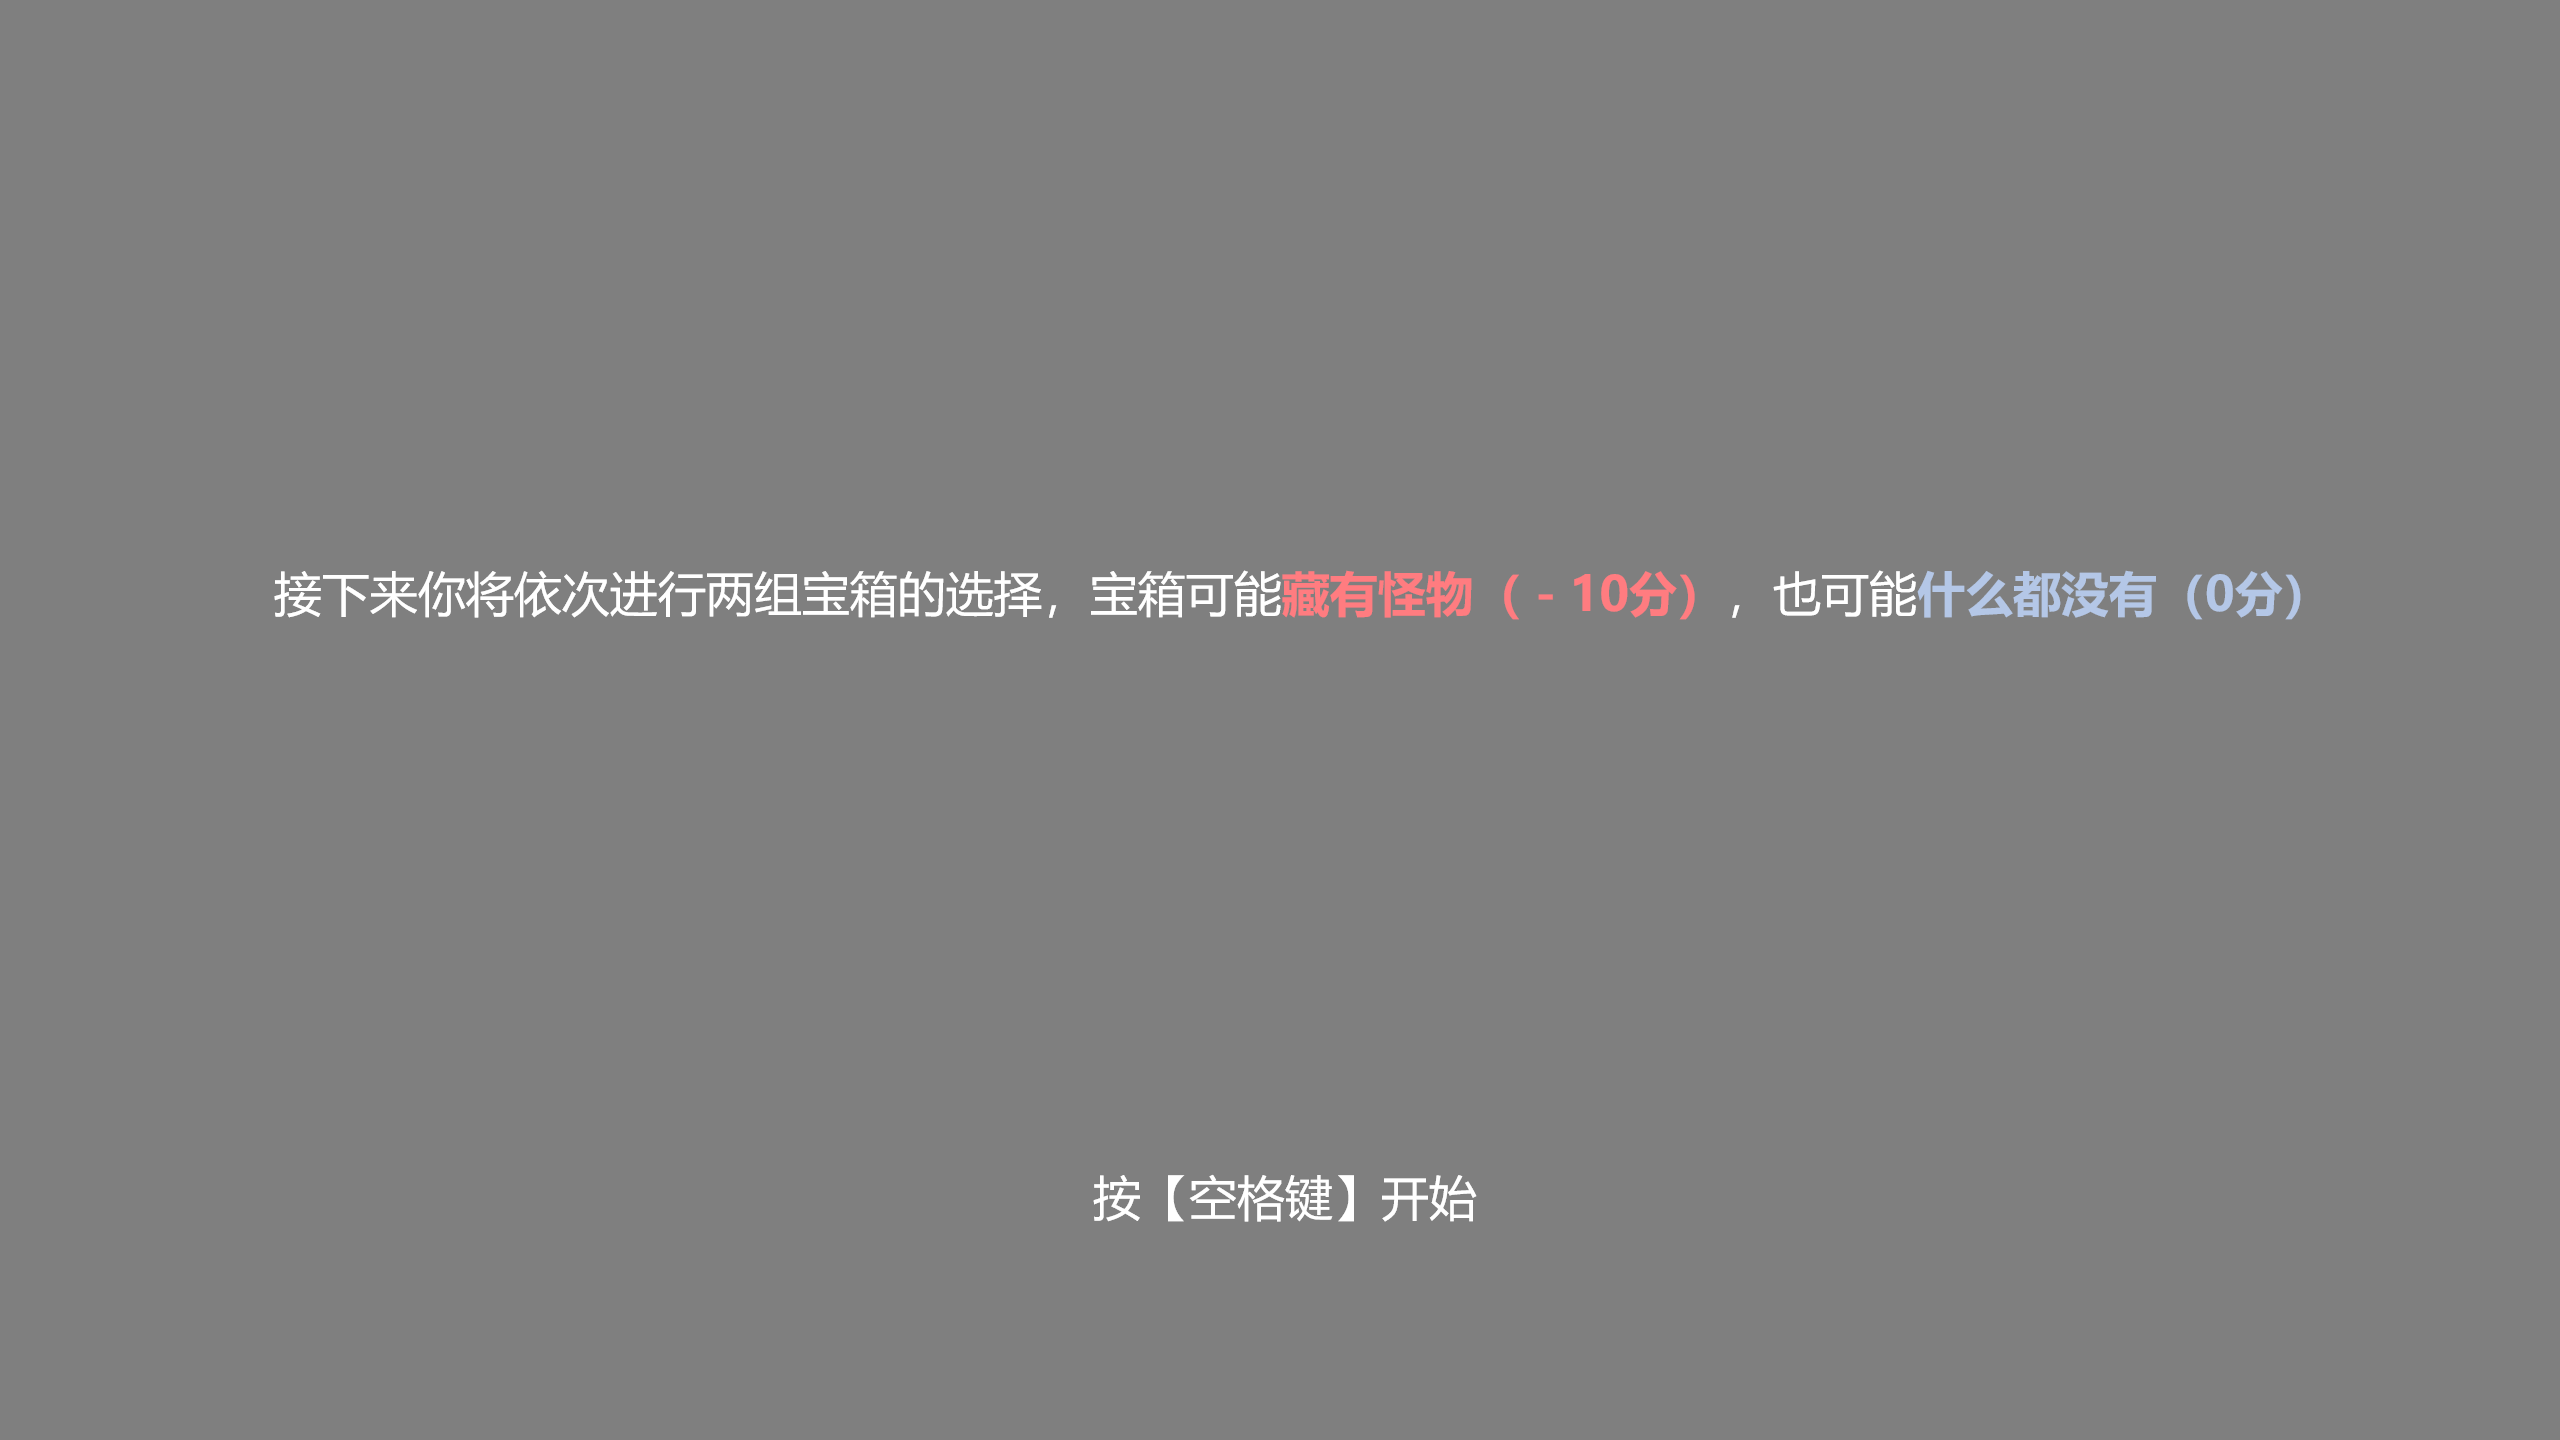
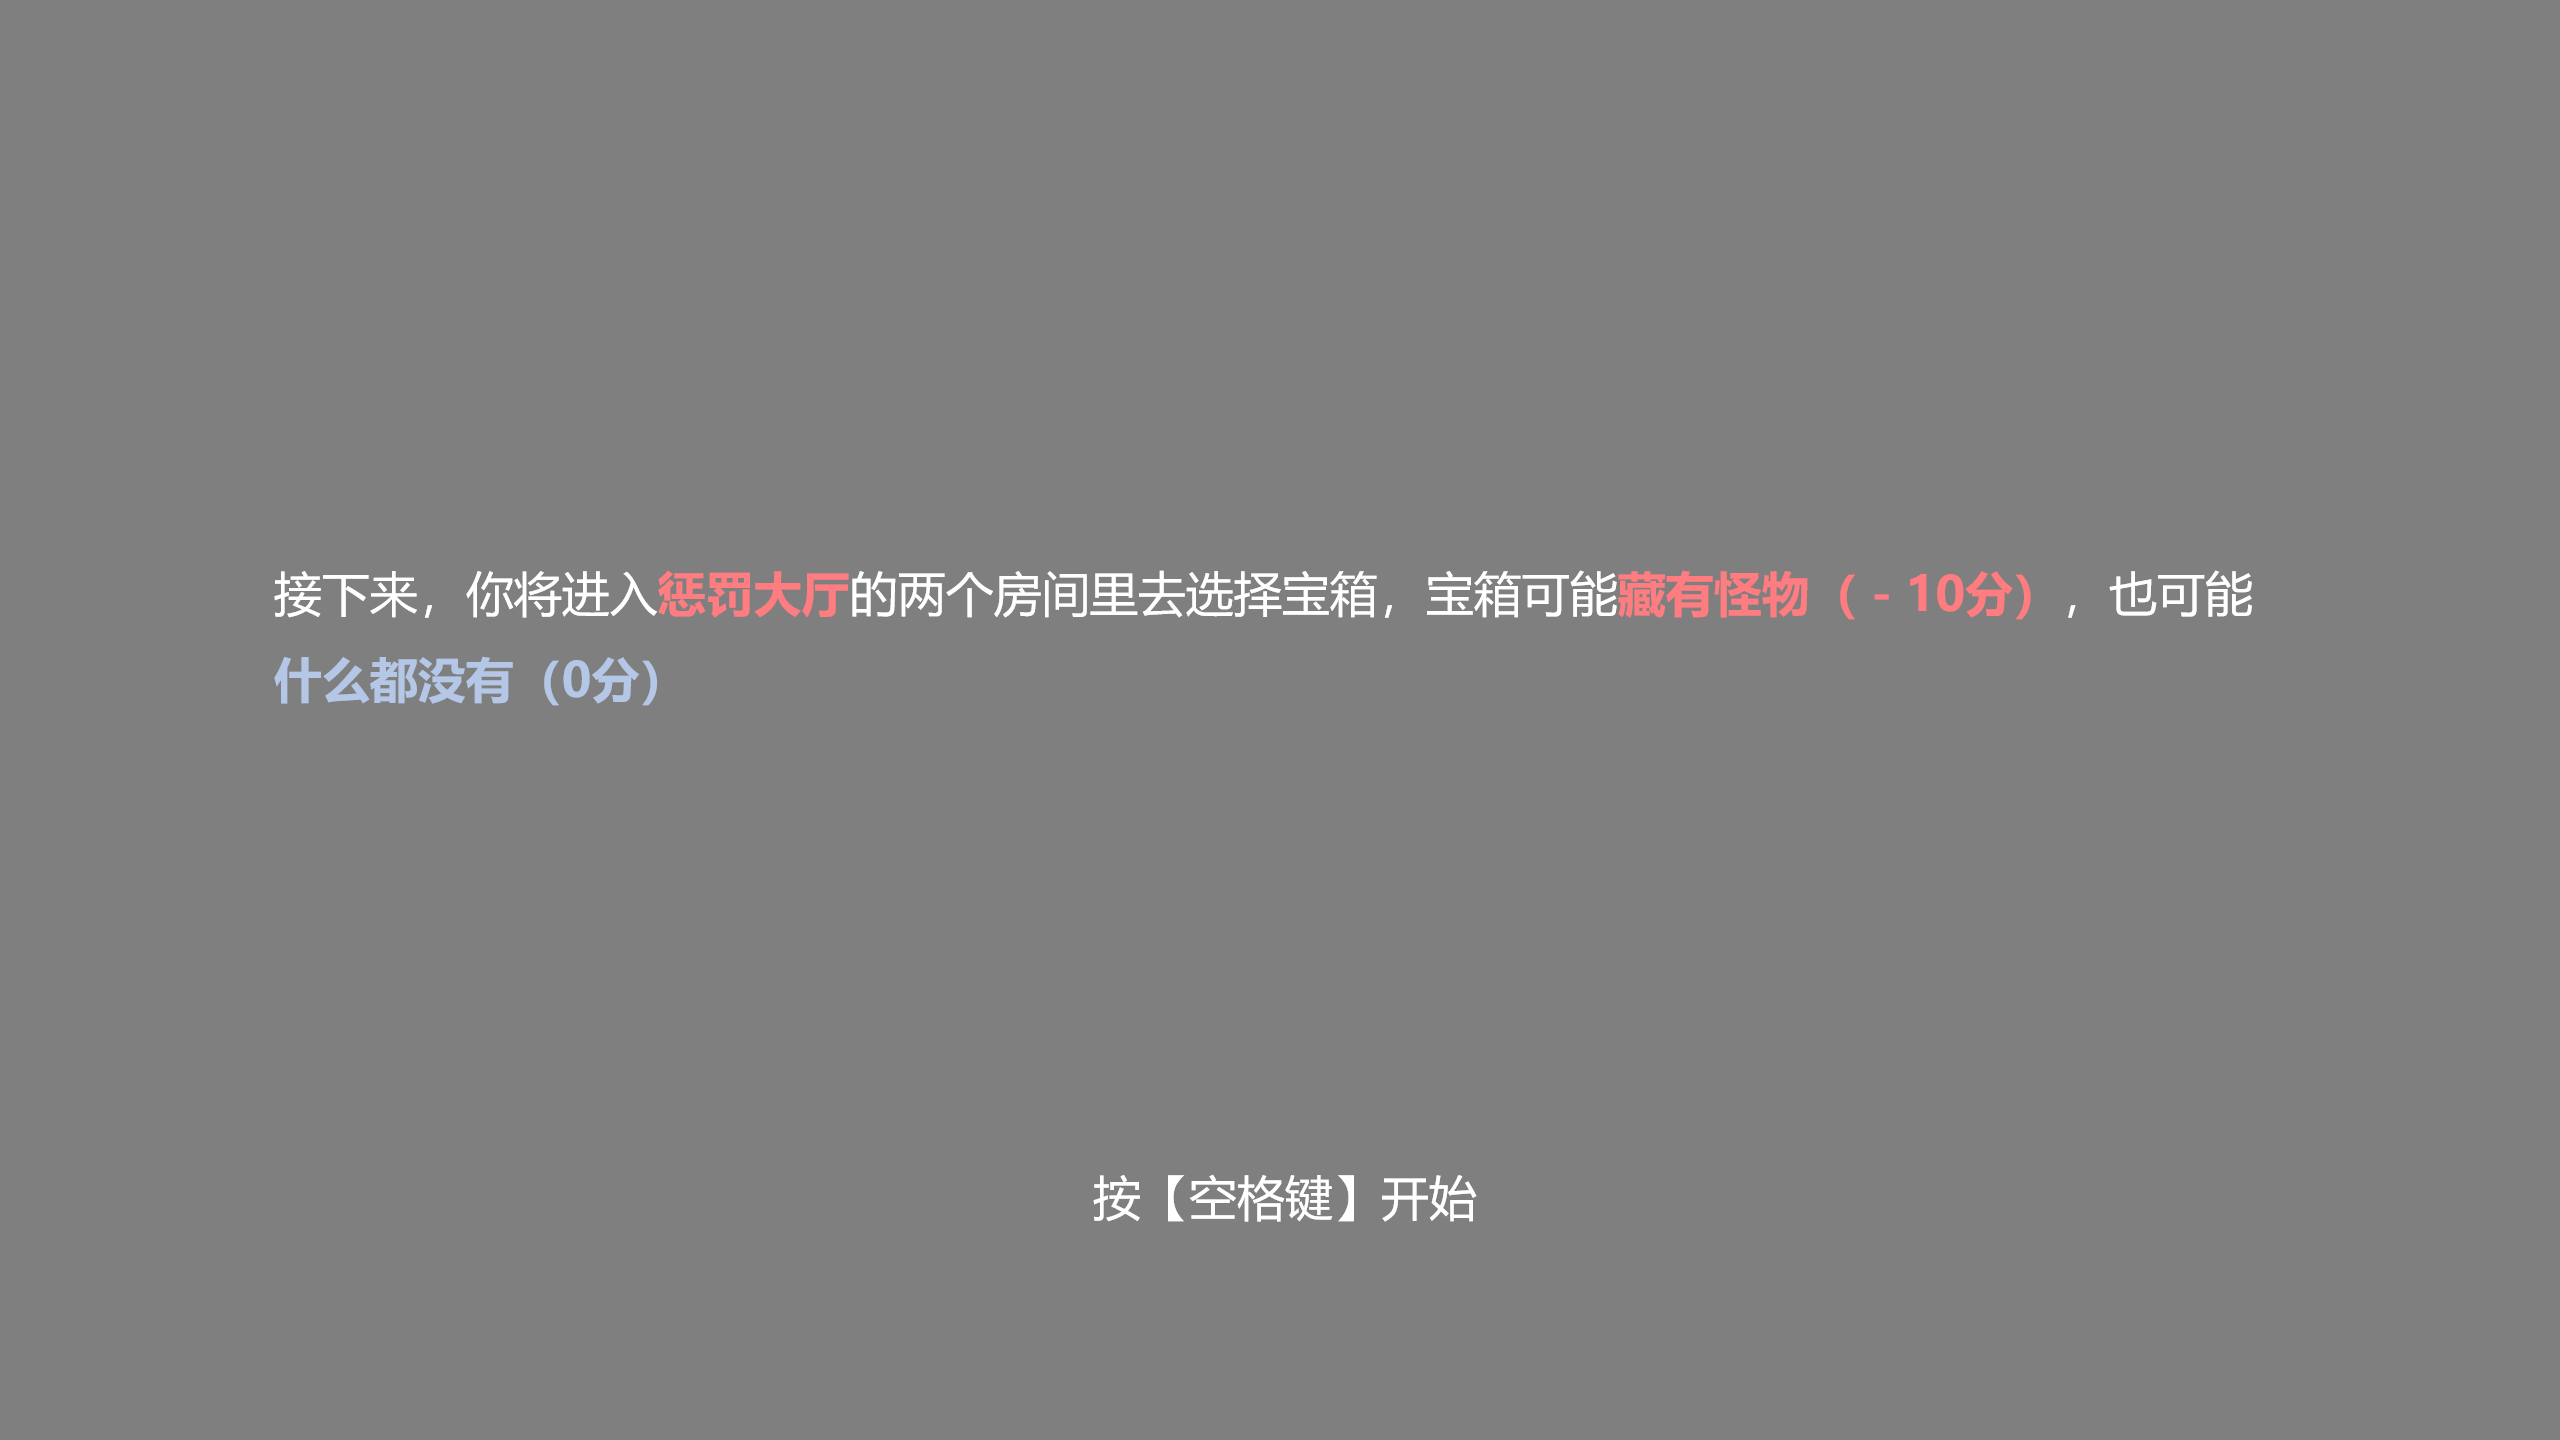
change introductions

Changed region(s): [[0.0938, 0.375, 0.9062, 0.5]]

diff --git a/exp.py b/exp.py
@@ -32,9 +32,9 @@ a = h/720
 results = {
     'choice':[],'p_choose':[], 'result':[], 'rt': []
     }
-n_repeat = 32
+n_repeat = 35
 df = hp.generate(n_repeat=n_repeat)
-df_train = hp.generate_train(n=12)
+df_train = hp.generate_train(n=6)
 win = visual.Window(size=(w, h), fullscr=True, units='pix')
 # Text
 text = visual.TextStim(win, height=64 * h / 720, pos=(0, 0), wrapWidth=10000)
@@ -129,11 +129,21 @@ rt_last = 3
 clk.reset()
 for i in range(len(df)):
     if i in [n_repeat, n_repeat*3]:
+        text.text = "本房间探索结束，你累积%s分" % money_total
+        text.draw()
+        win.flip()
+        core.wait(2)
+        clk.reset()
         while clk.getTime()<10:
-            text.text = '请休息，%s秒后进入下一组'%int(clk.getTime())
+            text.text = '请休息，%s秒后进入下一组'%10-int(clk.getTime())
             text.draw()
             win.flip()
     elif i in [0, n_repeat*2]:
+        if i != 0:
+            text.text = "本房间探索结束，你累积%s分" % money_total
+            text.draw()
+            win.flip()
+            core.wait(2)
         if df['condition'][i] == 'Gain':
             intro.image = 'img/Condition_Gain.png'
         else:

diff --git a/helpers.py b/helpers.py
@@ -5,7 +5,7 @@ import pandas as pd
 import numpy as np
 
 
-def generate(n_repeat=32,
+def generate(n_repeat=35,
              ):
     """
     Generate exp data.
@@ -45,7 +45,7 @@ def generate(n_repeat=32,
     return df
 
 
-def generate_train(n=12,
+def generate_train(n=6,
              ):
     """
     Generate exp data.
